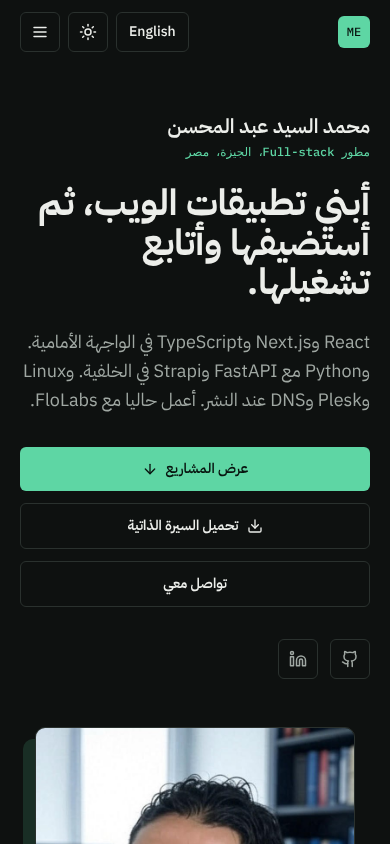
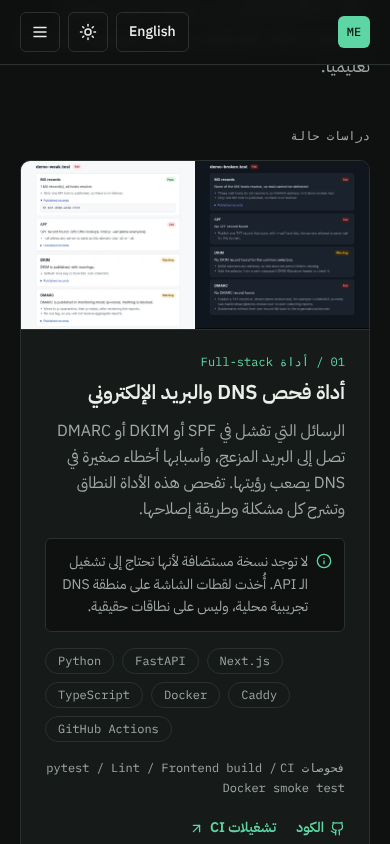
Update README and screenshots for the case-study layout
Claude-Session: https://claude.ai/code/session_01PPgPQC7yUseHwjnkT3p7f5

diff --git a/README.md b/README.md
@@ -4,19 +4,25 @@ Personal portfolio of Mohamed Elsayed Abdelmohsen, a full-stack developer in Giz
 
 Live site: https://portofolio-xi-wine.vercel.app
 
-| Desktop, light | Mobile, dark, Arabic (RTL) |
+| Desktop, light | Projects section, desktop |
 | --- | --- |
-| ![Desktop light](docs/screenshots/desktop-light.png) | ![Mobile dark Arabic](docs/screenshots/mobile-dark-arabic-rtl.png) |
+| ![Desktop light](docs/screenshots/desktop-light.png) | ![Projects section](docs/screenshots/projects-desktop-light.png) |
+
+| A case study opened (keyboard toggle) | Mobile, dark, Arabic (RTL) |
+| --- | --- |
+| ![Case study open](docs/screenshots/case-study-open-desktop-light.png) | ![Mobile dark Arabic](docs/screenshots/mobile-dark-arabic-rtl.png) |
 
 ## Features
 
-- Single-page site: hero, about and experience, skills, projects, contact.
+- Single-page site: hero, about (with a "What I bring" block whose points link to evidence), projects, experience, skills, contact.
+- Projects are written as case studies: one-line problem, honest status of the live site, stack, the CI checks that run in the repository, links (live, source, CI runs) and a native `<details>` panel with what was built, what was verified and the limitations. Six case studies, eleven smaller projects, and three live demos whose source repositories are private (only their public live link is shown).
+- Screenshots are lazy-loaded WebP files with explicit width and height, under 55 KB each, in `project/public/projects/`.
 - English and Arabic, with the page direction switching to RTL. The choice is saved in `localStorage`.
 - Light and dark theme, saved in `localStorage`, applied before first paint to avoid a flash.
 - Keyboard friendly: visible focus rings, semantic landmarks, `aria-current` on the active nav item, Escape closes the mobile menu.
 - Respects `prefers-reduced-motion`.
 - Fonts (IBM Plex Sans, Mono and Sans Arabic) are self-hosted through `@fontsource`, no CDN.
-- All text lives in `project/src/i18n/translations.ts` and project/skill data in `project/src/data/portfolio.ts`, so content changes do not touch components.
+- All text lives in `project/src/i18n/translations.ts` and project, skill and link data in `project/src/data/portfolio.ts`, so content changes do not touch components. English and Arabic keys are typed to stay in sync.
 
 ## Stack
 
@@ -42,16 +48,17 @@ No environment variables are needed.
 
 ## Content notes
 
-- Project descriptions were rewritten to say only what could be confirmed from each repository (its dependencies, folders and README). Earlier claims that could not be confirmed, such as "secure authentication", "real-time health data tracking" and "interactive maps", were removed.
-- The old contact form only simulated sending and never delivered anything, so it was replaced by direct contact links.
-- Stock photos that had been used as project thumbnails were removed because they were not screenshots of the projects.
-- Experience entries come from the CV in `project/public/`, which is unchanged.
+- Experience, education and skills follow the owner's resume. No degree in computer science is claimed: the education line is a Bachelor of Law (ongoing) plus self-taught web development and ITI courses.
+- Case-study facts come from each repository's README on GitHub and from its GitHub Actions status (checked on 2 Nov 2026). Where a README says something could not be verified, the case study says so too. Examples: the Firebase mode of the Sufra shop was never run against a real Firebase project, the Foodaty store follows a tutorial and its purchase flows were not run, the movie app needs a TMDB token on the host and may show no data without it, and the DNS checker has no hosted demo because it needs a backend.
+- Screenshots of the DNS checker, the movie app and the shops were taken against demo DNS data, mock API responses or placeholder images (product photos did not load in the capture environment). The case studies say this.
+- Private repositories were inspected only to decide whether a public live site could be listed. Nothing from their source is copied here. Three live sites are listed with a one-line description taken from the code (stack, mock data, demo admin login). Others (a law-school demo with invented testimonials, a duplicate nutrition-store repository, business landing pages and course exercises) were left out on purpose.
+- Project descriptions earlier than this version were rewritten to say only what could be confirmed. The fake contact form was replaced by direct contact links, and stock photos used as thumbnails were removed.
 
 ## Verification and limitations
 
-Verified by running `npm run lint`, `npm run typecheck` and `npm run build` (all pass), and by driving the dev server with Playwright at 1280x800 and 390x844 in light, dark, English and Arabic (no console errors, no horizontal overflow, language and theme toggles and the mobile menu work, choices persist after reload).
+Verified by running `npm run lint`, `npm run typecheck` and `npm run build` (all pass), and by driving the dev server with Playwright at 1280x800 and 390x844 in light, dark, English and Arabic: no console errors or warnings, no horizontal overflow, no broken images, `dir` switches to RTL in Arabic, the case-study panels open with the keyboard, and language and theme toggles work.
 
-Not verified: the external project links (live demos and GitHub repositories) were not opened from the build environment, because outside network access was blocked. The e-commerce Strapi demo may depend on a separately hosted Strapi backend. The `dns-email-health-checker` project has no hosted demo, so it links only to its source. Automated tests were not added, since the site has no non-trivial logic.
+Not verified: the external project links (live demos and GitHub repositories) were not opened from the build environment, because outside network access was blocked, so the "live" status lines come from each repository's README. The test counts quoted in the DNS checker case study (97 tests, 90% coverage gate) are taken from its README and CI results, and I did not re-run them here. Arabic copy was written alongside the English and has not had a native-speaker review. Automated tests were not added, since the site has no non-trivial logic.
 
 ## Notes
 
